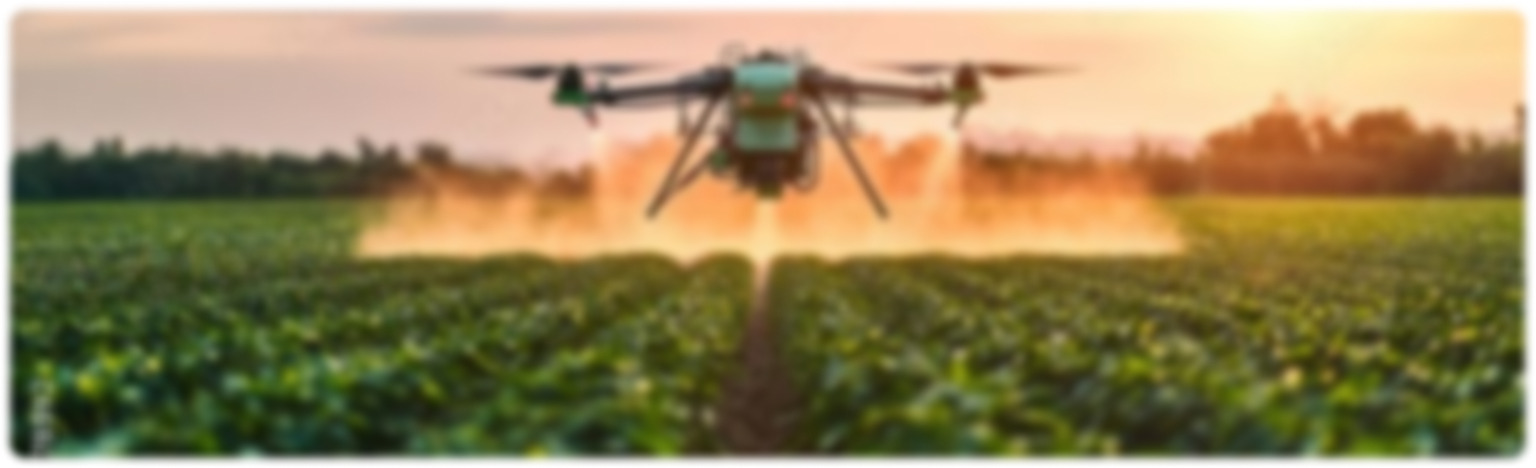
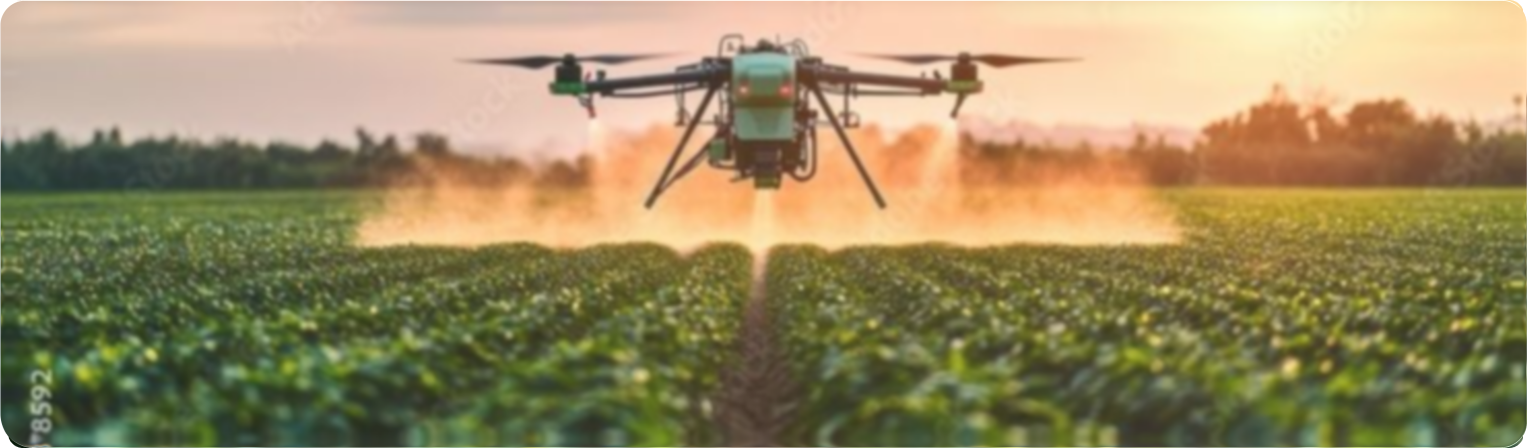
fix(Image background)

diff --git a/resources/views/pages/dashboard.blade.php b/resources/views/pages/dashboard.blade.php
@@ -5,10 +5,10 @@
 @section('content')
     <div class="px-6 md:px-16 py-8">
 
-        <div class="relative rounded-3xl overflow-hidden shadow-lg flex items-center min-h-[350px] md:min-h-[400px]">
+        <div class="relative rounded-3xl overflow-hidden flex items-center min-h-[350px] md:min-h-[400px]">
             <img src="{{ asset('assets/images/background.png') }}" class="absolute inset-0 w-full h-full object-cover"
                 alt="Hero Banner">
-            <div class="absolute inset-0 bg-gradient-to-r from-black/70 via-black/40 to-transparent"></div>
+            <div class="absolute inset-0 bg-gradient-to-r from-black/40 to-transparent"></div>
 
             <div class="relative z-10 w-full md:w-2/3 text-white px-8 md:px-14 py-12 space-y-6 text-left">
                 <h1 class="text-4xl md:text-5xl lg:text-6xl font-extrabold leading-tight tracking-tight">
